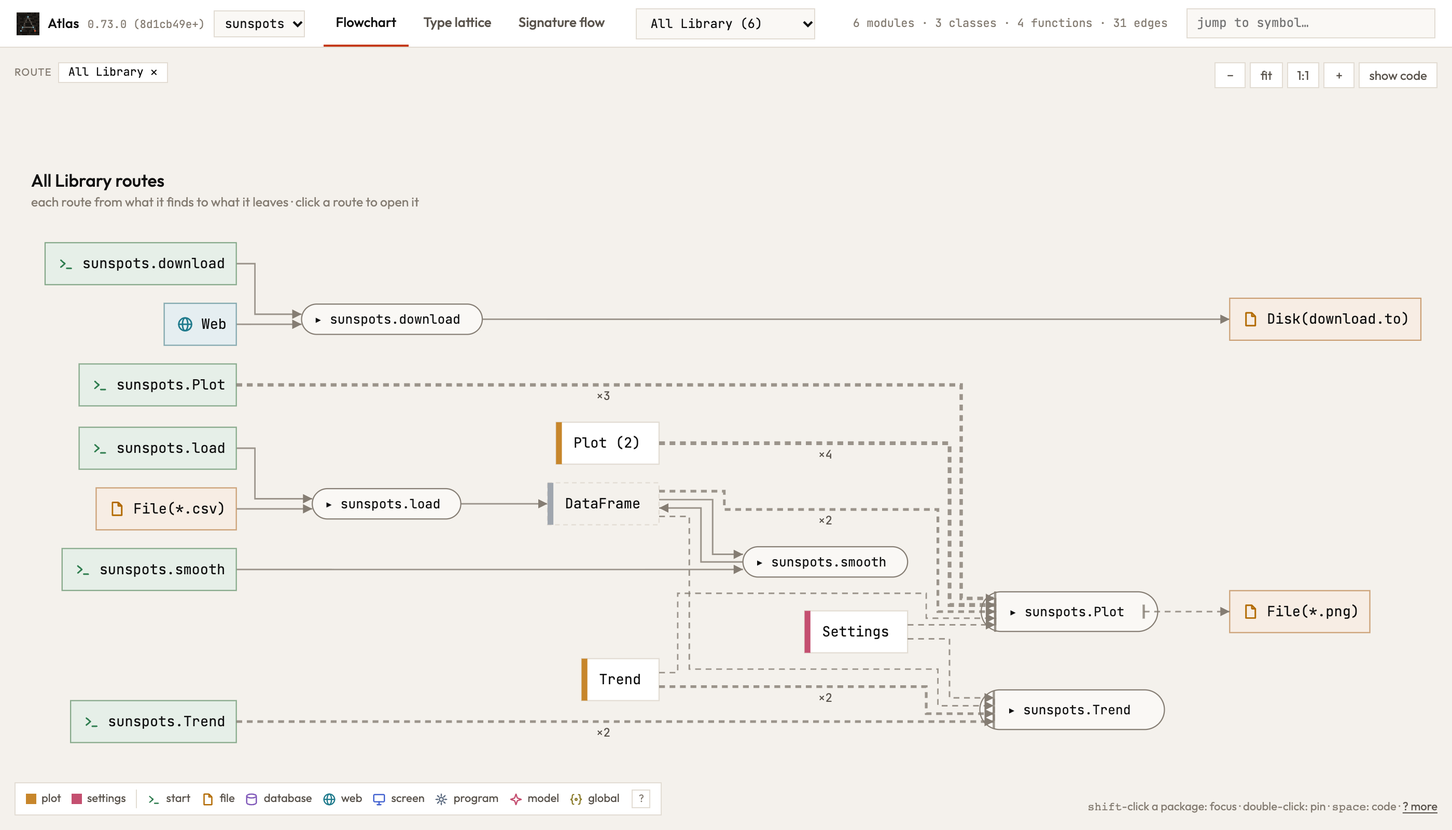
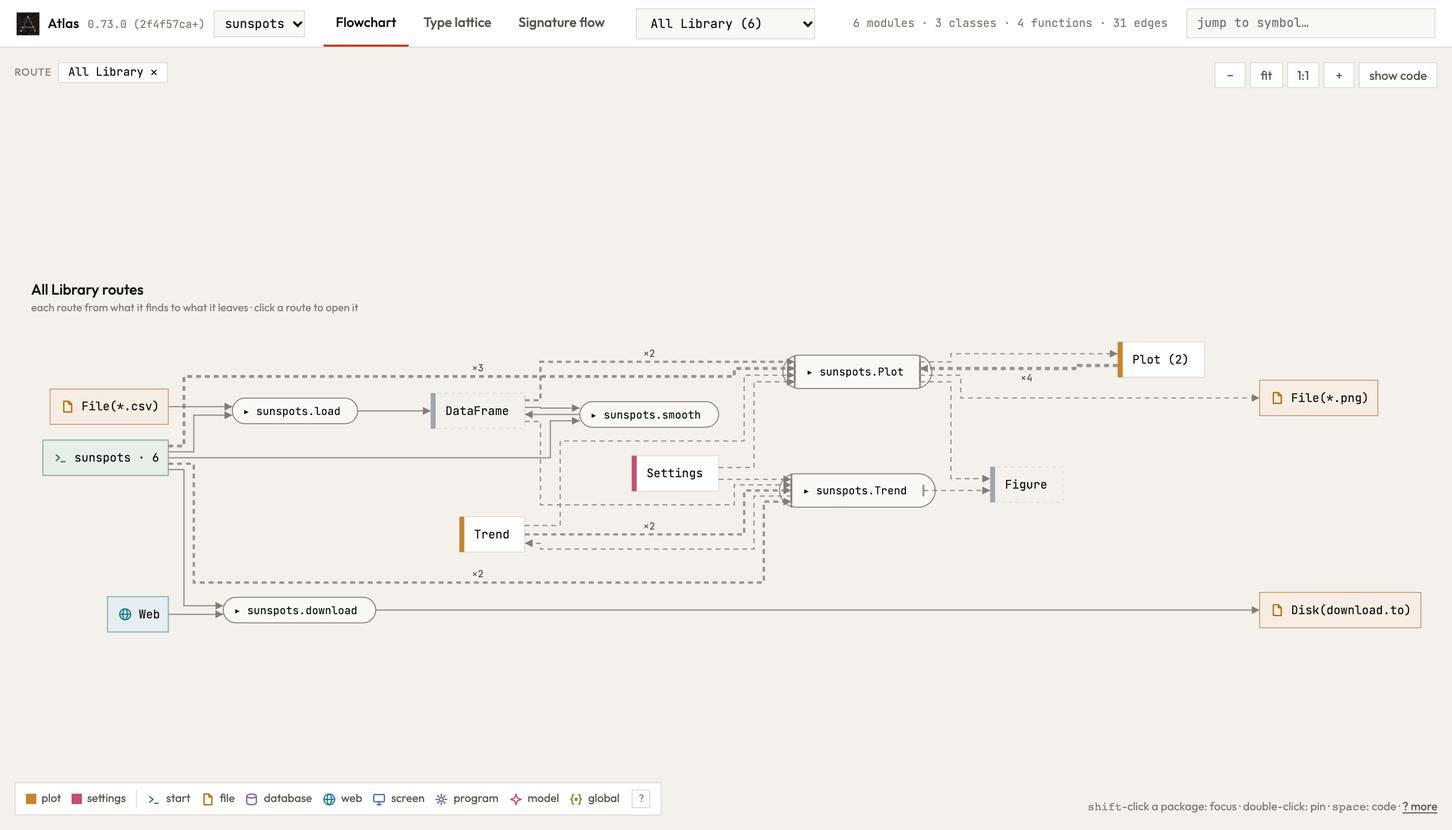
One entry box per kind, a class route ends at what its doors give, and fewer arrows for the kind view (#437, #434)
The entries of a kind's routes are one family: closed, one box named by what its members share,
which every route's entry line goes into with its count; opened (V.open.places), each route's own.
kindFaults holds both (entryFaults).

A class has no arrow of its own, so its route's border is its doors': the instance its initializer
builds and what a method gives back leave the class unless a door takes them. sunspots.Trend closed
gives the Trend and the Figure again.

plans.mjs --ends asks that every route closed, alone and among its kind, gives something; ignored in
plans.rs (every_route_ends_at_a_place) with #439, which classifies the 543 routes it finds.

cutArrow shares an arrow across class routes where it holds neither route's own type (12642 -> 7305
arrows on Atlas's exports, the closed routes identical); offAt caches the classes a function sets up.

diff --git a/viewer/plan.js b/viewer/plan.js
@@ -517,6 +517,18 @@ const ENTRY_PLACE = {cli: l => `$ ${l}`, make: l => `$ make ${l}`, script: l => 
 // in A, an entry whose usage line B changed reads as A had it
 const entryLabel = n => { const e = SIDE === "a" && DIFF?.entries[n.id] || n.entry; return ENTRY_PLACE[e.kind](e.label, n) + (e.options || []).map(o => " " + o).join(""); };
 const entryPlace = id => ({id: "e:" + id, label: entryLabel(byId.get(id)), kind: "world"});
+// The entries of the routes of one kind are one family: what an importer hands, the command line, the request. Among the
+// routes of a kind it is one box, named by what its members' names share (`$ sunspots`, `sunspots`) or else by what the kind
+// is entered from, which opens into each route's entry
+const ENTRY_FROM = {cli: "$ command line", make: "$ make", script: "$ script", notebook: "notebook", route: "request", mcp: "MCP client", export: "importer", prophecy: "prophecy", test: "test runner"};
+const entryFamily = (kind, ids) => {
+  const labels = ids.map(id => entryLabel(byId.get(id)));
+  let common = labels.reduce((a, b) => { let i = 0; while (i < a.length && a[i] === b[i]) i++; return a.slice(0, i); });
+  if (common.length < Math.min(...labels.map(l => l.length))) common = common.slice(0, Math.max(0, ...[".", " ", "/", ":"].map(c => common.lastIndexOf(c))));
+  common = common.replace(/[.\s/:]+$/, "");
+  const label = `${common && common !== "$" ? common : ENTRY_FROM[kind] || kind} · ${ids.length}`;
+  return {id: "e:~" + kind, label, short: label, kind: "world", entryFamily: kind, members: ids.map(id => "e:" + id)};
+};
 // the steps of a body that belong to its entry: the parses of the command line (`Cli::parse()`,
 // `parseArgs(..)`) and the steps whose values only those parses take (the parser argparse is
 // handed); and the names of what the parses give, which come from the entry
@@ -739,11 +751,17 @@ const receiverMakers = (n, i) => {
 // the set-ups that cannot have built the value step `s` of body `b` runs on: of `ran`, those that set up an object of the class
 // of the method its call names and that no step the value may be made of runs. A set-up holds for a method only where the value
 // it runs on may be one it built; where the body does not say which value that is, none is ruled out. The same as `Ix::off`
-const offLocal = new WeakMap();
+const offLocal = new WeakMap(), builds = new Map();
+// the classes whose objects a function sets up, with all it runs
+const buildsOf = g => {
+  const k = `${SIDE}|${g}`;
+  if (!builds.has(k)) builds.set(k, new Set([...reach(g, null).nodes].map(f => byId.get(f)).filter(c => c?.ctor).map(c => c.cls)));
+  return builds.get(k);
+};
 const offAt = (n, b, s, ran) => {
   const m = s.site != null && byId.get(n?.sites?.[s.site]?.to), cls = m && !m.ctor && m.cls;
   if (!cls) return NONE;
-  const builders = [...ran].filter(g => [...reach(g, null).nodes].some(f => { const c = byId.get(f); return !!(c?.ctor && c.cls === cls); }));
+  const builders = [...ran].filter(g => buildsOf(g).has(cls));
   if (!builders.length) return NONE;
   if (!offLocal.has(b)) offLocal.set(b, new Map());
   const memo = offLocal.get(b);
@@ -2054,6 +2072,7 @@ const imageOf = (F, opened, folded, {fineKeys = false} = {}) => {
     const pl = fp.get(k);
     let id = k;
     if (pl && /^[tv]:/.test(k)) id = pl.at && hidden.has(pl.at) ? entryId : pl.type && k.startsWith("t:") ? boxIn(placeOfType(pl.type), pl) : k;
+    else if (k.startsWith("e:")) for (const [fid, fam] of F.entries || []) if (fam.members.includes(k) && !V.open.places.has(fid)) id = fid;
     qId.set(k, id);
     return id;
   };
@@ -2063,6 +2082,7 @@ const imageOf = (F, opened, folded, {fineKeys = false} = {}) => {
     if (fineKeys) { places.set(id, fp.get(k)); return id; }
     const pl = fp.get(k);
     if (id === entryId) places.set(id, entryPlace(V.route));
+    else if (F.entries?.has(id)) places.set(id, F.entries.get(id));
     else if (pl?.type && k.startsWith("t:")) {
       const pid = placeOfType(pl.type), b = typePlace(pid);
       places.set(id, {...b, id, label: b.label + (pl.held ? ` · ${pl.held}` : named(pl) ? ` · ${pl.name}` : ""), at: pl.at, name: named(pl) ? pl.name : undefined, held: pl.held, ...(pl.door ? {door: pl.door} : {})});
@@ -2119,13 +2139,19 @@ const imageOf = (F, opened, folded, {fineKeys = false} = {}) => {
     const incidence = [];
     const hands = S ? treeInfo.get(S.step)?.site?.hands || [] : [];
     const handed = pl => !!pl && hands.some(h => (h.name && !h.name.startsWith("#") ? h.name === pl.name : !!h.type && h.type === pl.type));
+    // a class has no arrow of its own: its border is its doors', so what a door gives back and no step of the class takes
+    // leaves the class (its initializer's instance, a method's return)
+    const doors = S && !F.generators && byId.get(S.step)?.kind === "class" && !fPills.has("o:" + S.step);
+    const door = P => P.parent === S.id || (P.own && fFrames.get(P.parent)?.parent === S.id);
+    const takenIn = doors ? new Set(B.members.flatMap(P => [...P.D.keys()])) : null;
     for (const P of B.members) {
       // a block of the code's hierarchy (a package, a part) is no composite: every line of its code is its own
       const mine = !S || P.id === "o:" + S.step || !!F.generators;
       for (const [way, m] of [["D", P.D], ["C", P.C]]) for (const [k, r] of m) {
         const pl = fp.get(k), isValue = /^[tv]:/.test(k);
         // a value made and taken inside the block is the block's own; a place it wrote and reads back is no input of it
-        if (S && isValue && ((within(pl?.at, S.id) && !hidden.has(pl.at)) || homeIn(pl, S.id))) { drop.set(`${P.id}|${way}|${k}`, "internal"); continue; }
+        const leaves = doors && way === "C" && door(P) && !takenIn.has(k);
+        if (S && isValue && !leaves && ((within(pl?.at, S.id) && !hidden.has(pl.at)) || homeIn(pl, S.id))) { drop.set(`${P.id}|${way}|${k}`, "internal"); continue; }
         if (S && way === "D" && !isValue && back.has(k)) { drop.set(`${P.id}|${way}|${k}`, "back"); continue; }
         // a value the step's own call is handed is its own arrow's input, whichever of its steps takes it inside
         incidence.push([way, P, k, mine ? r : !(way === "D" && isValue && handed(pl)), mine]);
@@ -2239,13 +2265,17 @@ const cutArrow = key => {
   // functions its body calls are on the path, as well as on the callers that make its paths whole (#237)
   const direct = new Set(callees(i.step, i.on, callAlts(key)).map(t => (byId.get(t)?.kind === "class" ? runsOf(t) || t : t)));
   const memo = [SIDE, i.step, i.on || "", siteId(i.site), [...(i.fed || [])].sort(), [...i.path, i.step].filter(f => made.has(f) || direct.has(f)).sort(), [...(i.before || [])].filter(f => made.has(f)).sort(), routeContext(key, i)].join("|");
-  if (!cutArrows.has(memo)) {
+  // a class route draws its own type apart from its kind: an arrow that holds neither that type nor the one of the route it
+  // was made in is the same arrow in both
+  const own = byId.get(V.route)?.kind === "class" && kindOf(V.route) !== V.route ? V.route : "";
+  const hit = cutArrows.get(memo)?.find(r => r.own === own || (!r.types.has(r.own) && !r.types.has(own)));
+  if (!hit) {
     const F = planBase([unfoldStep(key)]), P = imageOf(F, () => false, false, {fineKeys: true}).pills.get("n:" + key);
     // what the step hands on is at its own moment; the moment it has is its caller's to give
     const at = "@n:" + key, strip = k => (k.endsWith(at) ? k.slice(0, -at.length) : k);
     // the types its body holds, inside it as well as at its border: the route's fiber, on which its families are taken, is
     // the same whether the step is cut or open (#183)
-    const r = {key, route: V.route, dom: new Map(), cod: new Map(), dn: new Map(), cn: new Map(), goes: P?.goes || new Map(), mult: {D: new Map(), C: new Map()}, places: new Map(), split: F.splitBy, errs: new Set(), types: typesOf(F)};
+    const r = {key, route: V.route, own, dom: new Map(), cod: new Map(), dn: new Map(), cn: new Map(), goes: P?.goes || new Map(), mult: {D: new Map(), C: new Map()}, places: new Map(), split: F.splitBy, errs: new Set(), types: typesOf(F)};
     for (const [way, m, n, far, names, into] of [["D", P?.D, P?.Dn, P?.Dr, r.dn, r.dom], ["C", P?.C, P?.Cn, P?.Cr, r.cn, r.cod]]) for (const [k, flag] of m || []) {
       // what it hands on keeps the name that holds it, also one its call gives by no name, which the caller's own code reads
       // (`#..`, `Node::uses`), and a value of no type of the code's, which is its name (#183)
@@ -2267,12 +2297,13 @@ const cutArrow = key => {
       const [e, ep] = handed.flatMap(d => F.heldOf(d).filter(([, [h2, hp2]]) => h2 === h && hp2 === hp).map(([dp]) => [d, dp]))[0] || [];
       return e ? [[strip(c), cp, strip(e), ep, !!whole]] : [];
     }));
-    cutArrows.set(memo, r);
+    if (!cutArrows.has(memo)) cutArrows.set(memo, []);
+    cutArrows.get(memo).push(r);
   }
   // planned by itself, a step's figures are its call's: the figures of another call of the step are this call's
   // its figures are named by the occurrence that makes them or the value that holds them: another call's are this call's
   // a command line's names come from the entry of the route the step is planned in
-  const r = cutArrows.get(memo), fig = "w:Screen:fig:", esc = r.key.replace(/[.*+?^${}()|[\]\\]/g, "\\$&"), entry = "e:" + r.route;
+  const r = hit || cutArrows.get(memo).at(-1), fig = "w:Screen:fig:", esc = r.key.replace(/[.*+?^${}()|[\]\\]/g, "\\$&"), entry = "e:" + r.route;
   const re = k => (k === entry ? "e:" + V.route : r.key === key || !k.startsWith(fig) ? k : k.replace(new RegExp(esc + "(?=[/|~@^]|$)", "g"), key));
   const copy = m => new Map([...m].map(([k, v]) => [re(k), v]));
   // what it hands on as an error leaves by its border beside its result (#138)
@@ -2282,8 +2313,8 @@ const cutArrow = key => {
 // What a step's arrow reads of the route it is planned in, beyond the calls that lead to it: which places the route serves
 // that the step only gives their shape (`contentOf`), whether a touch it reaches is made whole by the route's users
 // (`users_of`), the kind of the route (a notebook shows its figures, a command line feeds names from the entry), whether the
-// step is a door of the route's class or builds it, and the route's own type where it stands apart from its kind. Routes that
-// agree on these plan the step to one arrow, so all routes of a kind make each arrow once
+// step is a door of the route's class or builds it; and, where the arrow holds it, the route's own type that stands apart from its
+// kind (`cutArrow`). Routes that agree on these plan the step to one arrow, so all routes of a kind make each arrow once
 // of the touches a step reaches, those a route may serve (a shape, a connection, a test) and whether one is made whole by a
 // route's users: what is the same in every route
 const servable = new Map();
@@ -2297,8 +2328,7 @@ const servableOf = (step, on, alts) => {
 };
 const routeContext = (key, i) => {
   const r = byId.get(V.route), {served} = contentOf([V.route], `${SIDE}|${V.route}|${V.kind}`), {users, shapes} = servableOf(i.step, i.on, callAlts(key));
-  const own = r?.kind === "class" && kindOf(V.route) !== V.route;
-  return [r?.entry?.kind || "", isDoorOf(key) ? 1 : 0, i.built || "", users || own ? V.route : "", shapes.map(t => (served(t) ? 1 : 0)).join("")].join("^");
+  return [r?.entry?.kind || "", isDoorOf(key) ? 1 : 0, i.built || "", users ? V.route : "", shapes.map(t => (served(t) ? 1 : 0)).join("")].join("^");
 };
 // the types a plan holds: those of its places, and those the bodies of its steps beyond the cut hold
 const typesOf = F => new Set([...[...F.places.values()].map(p => p.type).filter(Boolean), ...[...F.pills.values()].flatMap(P => [...(P.types || [])])]);
@@ -2706,7 +2736,12 @@ const kindBase = () => {
   routeParses = false;
   FIBER = fiber;
   const places = new Map([...seen].map(([id, pl]) => [id, id.startsWith("t:") ? typePlace(id.slice(2)) : pl]));
-  return {places, pills, frames: new Map(), found, updated, generators: true, fiber, split: new Set(), splitBy: [], heldOf: () => [], originOf: new Map()};
+  const routes = overviewEntries().map(e => e.id), entries = new Map();
+  if (routes.length > 1) {
+    const fam = entryFamily(V.kind, routes);
+    entries.set(fam.id, fam);
+  }
+  return {places, pills, frames: new Map(), found, updated, generators: true, fiber, split: new Set(), splitBy: [], heldOf: () => [], originOf: new Map(), entries};
 };
 // a route: its finest plan, built once from the code and independent of what is open
 const routeBase = () => {

diff --git a/viewer/index.html b/viewer/index.html
@@ -1624,7 +1624,7 @@ async function renderPlaat(mine) {
     const Q = pos.get(p.id), kind = placeKind(p.id);
     const grp = el("g", {class: "tnode" + (p.kind === "ext" ? " ghost" : "") + (p.kind === "ref" ? " ref" : "") + (kind ? " world" : "") + (kind ? "" : prophecyClass(byId.get(p.type))), "data-id": p.id}, ng);
     pointable(grp, p.id);
-    grp.addEventListener("mouseenter", () => { hoverTarget = () => { if (p.id.startsWith("e:")) select(p.id.slice(2)); else if (kind) selectPlace(p.id, p.label); else if (p.type) selectType(p.type); }; });
+    grp.addEventListener("mouseenter", () => { hoverTarget = () => { if (p.entryFamily) return; if (p.id.startsWith("e:")) select(p.id.slice(2)); else if (kind) selectPlace(p.id, p.label); else if (p.type) selectType(p.type); }; });
     grp.addEventListener("mouseleave", () => { hoverTarget = null; });
     if (kind) grp.style.setProperty("--k", `var(--k-${kind})`);
     el("rect", {class: "bg", width: Q.w, height: Q.h}, grp);
@@ -1646,6 +1646,8 @@ async function renderPlaat(mine) {
     clicks(grp, () => {
       plaatAnchor = p.id;
       if (p.folded) { selectPlace(p.id, p.label); V.open.dirs.add(p.folded); render(); return; }
+      // the entries of the routes of a kind are one box, which opens into each route's entry
+      if (p.entryFamily) { V.open.places.add(p.id); render(); return; }
       // the entry of a route opens to show how the command line is parsed, and closes again
       if (p.id.startsWith("e:")) {
         const id = p.id.slice(2);
@@ -1752,8 +1754,10 @@ function crumbs() {
   if (V.open.units.size && !V.route && !V.kind) { lbl("packages"); for (const u of V.open.units) chip(opened(u), () => V.open.units.delete(u)); }
   // an opened entry shows how its command line is parsed; any other opened place is split
   const openEntries = [...V.open.places].filter(r => r.startsWith("e:") && byId.get(r.slice(2))?.entry), split = [...V.open.places].filter(r => !r.startsWith("e:"));
-  if (V.open.steps.size || V.open.functions.size || openEntries.length) {
+  const entryFamilies = V.kind && !V.route ? [...V.open.places].filter(r => r === "e:~" + V.kind) : [];
+  if (V.open.steps.size || V.open.functions.size || openEntries.length || entryFamilies.length) {
     lbl("opened");
+    for (const r of entryFamilies) chip(`each ${KIND_LABEL[V.kind] || V.kind} route's entry`, () => V.open.places.delete(r));
     for (const r of openEntries) chip(`${entryTitle(r.slice(2))} · its parse`, () => V.open.places.delete(r));
     for (const id of V.open.steps) { const info = treeInfo.get(id), n = byId.get(stepOf(id)), name = n?.name || short(stepOf(id)); chip(info?.on && n?.cls ? `${typeLabel(info.on)}.${name}` : name, () => V.open.steps.delete(id)); }
     for (const f of V.open.functions) chip(`every ${byId.get(f)?.name || short(f)}`, () => V.open.functions.delete(f));

diff --git a/engine/tests/plans.rs b/engine/tests/plans.rs
@@ -27,7 +27,7 @@
 //! What Atlas gets wrong today is marked in the file with the issue that tracks it: `known #N FACT` for a fact that does
 //! not hold, `known #N extra FACT` for one Atlas has and should not, `known #N fault TEXT` for a fault of the pictures
 //! (before any route, of every route of the program), and `known #N VIEW TEXT` for a fault of the program's views that its
-//! law (`overview`, `focus`, `kinds` or `views`) finds. The test reports each and passes, and fails once it holds or is
+//! law (`overview`, `focus`, `kinds`, `views` or `ends`) finds. The test reports each and passes, and fails once it holds or is
 //! gone, so that the mark goes with the fix.
 
 use atlas_engine::{flow, parts, Options};
@@ -66,7 +66,7 @@ struct Plan {
 }
 
 /// The laws of the views, each by the word its marks carry and the flag `plans.mjs` is asked with.
-const VIEW_LAWS: [&str; 4] = ["overview", "focus", "kinds", "views"];
+const VIEW_LAWS: [&str; 5] = ["overview", "focus", "kinds", "views", "ends"];
 
 fn read_plan(path: &Path) -> Plan {
     let text = std::fs::read_to_string(path).expect("reads the plan");
@@ -419,6 +419,18 @@ fn every_kind_view_is_the_union_of_its_routes_closed() {
 fn every_view_state_draws_the_image_of_its_plan() {
     let fails = views_hold("views");
     assert!(fails.is_empty(), "{} faults of the view states:\n{}", fails.len(), fails.join("\n"));
+}
+
+/// A route starts at an entry point and ends at a place, and both are visible (sentence 3): every route closed, alone and
+/// among the routes of its kind, gives something, a value, a place it changes or a call it makes. A route whose code gives
+/// nothing and changes nothing ends nowhere, a finding of the program. Ignored until a route's codomain is drawn whatever
+/// its type (#439): a value of no type of the code's that a route gives back, and a class built from its fields, end at no
+/// place in 543 routes of the pairs.
+#[test]
+#[ignore = "a route's codomain of no type of the code's is not drawn (#439)"]
+fn every_route_ends_at_a_place() {
+    let fails = views_hold("ends");
+    assert!(fails.is_empty(), "{} routes end at no place:\n{}", fails.len(), fails.join("\n"));
 }
 
 /// Test code is not saturated by the package quotient, so the fiber and the quotient do not commute (mathematics.md,

diff --git a/docs/reference/mathematics.md b/docs/reference/mathematics.md
@@ -1092,7 +1092,17 @@ no fact of the union. Each route is planned cut at its first level (`ROUTE_DEPTH
 beyond the cut is the image of its body, so the route closed is the same image, and each line of a
 route's box counts the fine lines it stands for and those it reaches. A step that two routes run in the
 same context (the route's entry, whether it is a door, what it builds, whether it serves its route's own
-types) is one arrow, made once for both (`routeContext`).
+types) is one arrow, made once for both (`routeContext`); a class route draws its own type apart from its
+kind, so an arrow that holds that type is made for that route alone. A class has no arrow of its own: the
+border of a class route is its doors', so the instance its initializer builds and what a method gives back
+leave it unless a door of the class takes them.
+
+The entries of the routes of one kind are one family, what the kind is entered from: an importer, the
+command line, a request. Zooming out is a quotient, so in `F_K/q` the family is one box, named by what its
+members' names share (`$ sunspots`, `sunspots`) or else by what the kind is entered from, with the count of
+the entries it stands for, and every route's line from its entry goes into it with its count. Opened
+(`V.open.places`), it is the union of the routes' entries, each route's line from its own: the same rule as
+any family that a quotient collapses.
 
 Every view the page draws is a function of one value, the view state `V`, the one the page's address
 holds. Its coordinates are of two sorts. What the reader looks at decides the fine plan: a route
@@ -1141,7 +1151,8 @@ Each law is then a theorem of the construction, or it is not yet, and says which
 | Across the cut | a cut step's arrow is the image of its body, made by the same construction (`cutArrow`) | `plans.rs` at the budgets 1, 2 and 3 (`ATLAS_FINE_BUDGET`), which cut the small programs as a large one is cut: each line of a cut step counts the fine lines its body draws there, and each cut step of the closed picture, opened and planned anew, refines the picture it was cut in (`cutOpenings` in `plans.mjs`); at the same budgets a route whose body, unfolded, has 2^40 occurrences, which only an arrow made without unfolding the body can plan (`a_step_beyond_the_cut_is_made_without_unfolding_its_body`); `topology` with a small budget |
 | The overview | `F₀/q` maps onto `F₀/q′` along the blocks, as a route's pictures do, the calls a channel among them | the oracle; `plans.rs` (`every_package_view_is_the_image_of_its_plan`), for every set of open packages and parts of every program: each line counts the fine lines it stands for and none is reached, a type internal to a closed package draws none, each call goes between the blocks of its ends, and the picture is a function of the set of open boxes; all of it again without the test code, whose plan is the fiber of the plan with it |
 | A focus | `F_U` is a fiber of `F₀` closed under kinds, its homes `F₀`'s, and `q_U` a map on it | `plans.rs` (`every_focus_is_the_image_of_a_fiber_of_the_overviews_plan`), for every set of packages in focus and every set of open packages: each closed package has the border it has in the overview opened alike, each type the home `F₀` gives it, the plan is the star of the focus restated on its own (`starOf`), the oracle with `q_U`, the lines count the fine ones, every line has its ends, and closing in turn draws each picture it was; the program `plans/focus-shapes` |
-| All routes of a kind | `F_K` is the union of the routes' closed pictures, each route's box the image of its plan cut at its first level | `plans.rs` (`every_kind_view_is_the_union_of_its_routes_closed`): each route's box against the image of its finest plan with no box open, line by line with the fine lines each counts and those it reaches; where the cut draws otherwise, a fault marked with #438 |
+| All routes of a kind | `F_K` is the union of the routes' closed pictures, each route's box the image of its plan cut at its first level | `plans.rs` (`every_kind_view_is_the_union_of_its_routes_closed`): each route's box against the image of its finest plan with no box open, line by line with the fine lines each counts and those it reaches; where the cut draws otherwise, a fault marked with #438; the routes' entries one box closed, with each route's count, and opened the union of the routes' entries |
+| A route ends at a place | the codomain of a route closed is what crosses its border: what it gives back, writes, sends or runs | `plans.rs` (`every_route_ends_at_a_place`, ignored: a value of no type of the code's that a route gives back, and a class built from its fields, end at no place, #439): every route closed, alone and among its kind, gives a value, changes a place or makes a call |
 | Every view | `picture(V) = image(F(V), q(V))` by one `plan()` | `plans.rs` (`every_view_state_draws_the_image_of_its_plan`), on a walk of the view state of every program: endpoints, the oracle, the counts, each box at its plan's home (a type at its home in `F₀`), a coordinate the view does not read changes nothing, and each picture drawn again is the one it was; the coordinates of `V` read from the page |
 
 The oracle holds the pictures to one another, not to the program. Whether `F` says what the code
@@ -1155,9 +1166,10 @@ the pairs and of its programs.
 `changedThrough` and `changesOwner`,
 `coarsen`, `siblings`, `cutArrow` and `typesOf`, `handTo` and `checkOpenings`, the view state `V`, `VIEWS`, `viewOf`,
 `routeBase`, `overviewBase` and `overviewOpen`, the focus's `focusBase`, `focusOpen` and `restSides`, the kind view's
-`kindBase`, `closedRoute`, `ROUTE_DEPTH` and `routeContext` in `viewer/plan.js`,
+`kindBase`, `closedRoute`, `ROUTE_DEPTH`, `routeContext` and `entryFamily` in `viewer/plan.js`,
 `cutOpenings`, `ends`, `overviewFaults`, the focus's `starOf`, `borderOf` and `focusFaults`, the kind view's `kindFaults`,
-and the walk of the view state, `viewFaults`, `stateFaults`, `generated` and `coordinateFaults`, in `engine/tests/plans.mjs`;
+`entryFaults`, the walk of the view state, `viewFaults`, `stateFaults`, `generated` and `coordinateFaults`, and where a route ends,
+`endsFaults`, in `engine/tests/plans.mjs`;
 the field an argument reads, `Steps::fills` and `Steps::read_of` (`body.rs`); the class each field of a class holds, `Node::holds`;
 which parameters of no type of the code's hold a value, `builder::settle_parameters`; the fields a condition tests,
 `Steps::tests` (`body.rs`), and whether a figure is made sure of, `guarded` in `viewer/plan.js`; the names a body binds

diff --git a/docs/changes/437.md b/docs/changes/437.md
@@ -9,9 +9,10 @@ view: {"kind": "export"}  # engine/tests/pairs/pipeline/python-clean
 The view of all routes of a kind (every command, every export) draws each route as its route's own picture closed
 (#434). A command takes the command line it starts from, the values it reads from beyond it and the errors it hands
 on, and it gives the figures it draws. Before, the box of a route showed only what the function's own signature and
-touches said, so a command started from nothing and a figure it drew on was left out. In the sunspots pipeline's
-exports, `sunspots.Plot` now starts from its entry, takes the `Plot` and `Trend` values its methods run on and draws
-`File(*.png)`, the figure it saves; before, it gave a `Figure` and a file named after the class.
+touches said, so a command started from nothing and a figure it drew on was left out. The routes' entries are one box,
+named by what they share (`sunspots · 6` for the six exports of the sunspots pipeline), which opens into each route's
+own. A class route gives what its doors give back and the instance it builds: `sunspots.Trend` gives the `Trend` and
+the `Figure` its `draw` returns, and `sunspots.Plot` the `Plot`, the `Figure` and `File(*.png)`, the figure it saves.
 
 Every view the page draws (the overview, a part, a focus, the routes of a kind, a route) is now the image of its own
 fine plan through one function, from one view state: what the reader looks at and what they have open. A type in
@@ -21,6 +22,10 @@ open, so opening a package no longer moves a type that the package only takes in
 One law holds all of it on every small program (`every_view_state_draws_the_image_of_its_plan`): it walks the view
 state, closed, one box open at a time and sets of boxes drawn from a seed. A coordinate a view does not read changes
 nothing, and every picture drawn again is the picture it was. The routes whose box at the cut still differs from
-their picture closed are #438.
+their picture closed are #438; a route that gives back a value of no type of the code's, or builds a class from its
+fields, still ends at no place (#439).
+
+Planning every route costs time on a large program: the 460 exports of Atlas itself draw in about 2 s, where the
+routes' own signatures took some 10 ms.
 
 Kind: drawn wrong, now right.

diff --git a/engine/tests/plans/README.md b/engine/tests/plans/README.md
@@ -114,7 +114,7 @@ known #438 kinds all export routes: news.read.headlines draws       # a fault of
 
 The test reports each mark and passes. It fails once the fact holds, or the extra fact or the fault is gone, so the mark
 goes with the fix. A `known #N fault` written before any `route` holds for every route of the program. A fault of the
-program's views is marked by the law that finds it (`overview`, `focus`, `kinds` or `views`) and holds wherever it is
+program's views is marked by the law that finds it (`overview`, `focus`, `kinds`, `views` or `ends`) and holds wherever it is
 written; a file with no route holds only such marks.
 
 ## The programs here
